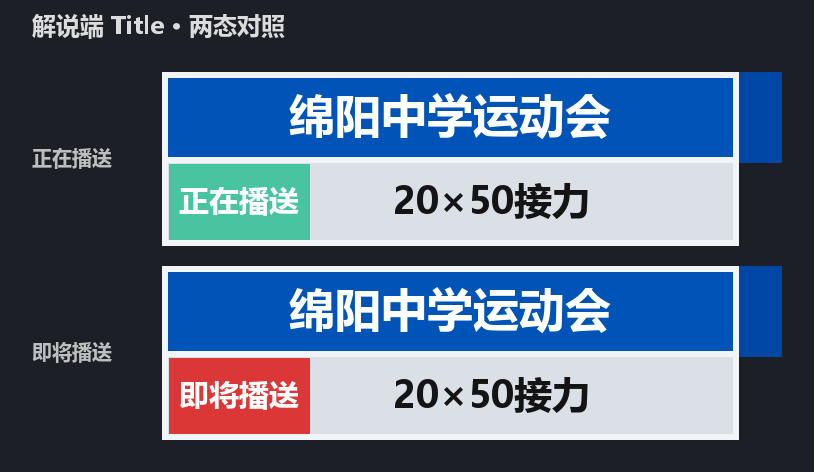
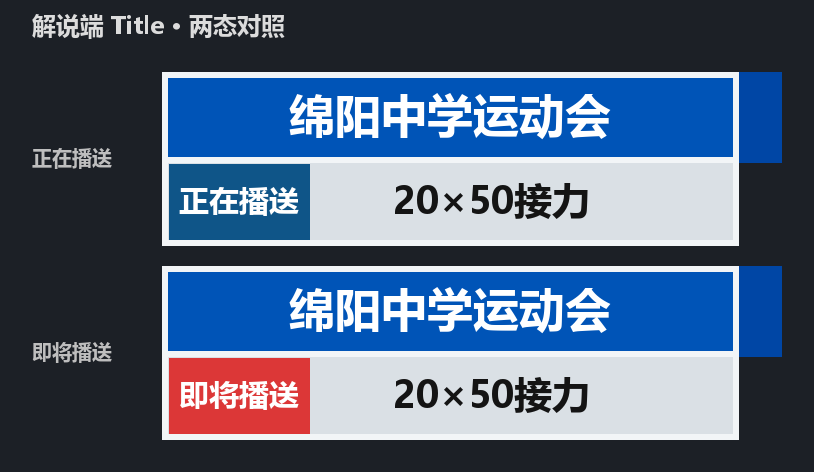
抠像键色改纯绿，「正在播送」状态色改蓝
键色从洋红 #FF00FF 改成纯绿 #00FF00。不用更「专业」的 EBU 绿 #00B140：纯绿饱和度
100%，而摄像机拍出来的绿永远带一点红蓝污染、不会那么纯，#00B140 明度只有 35%、
更贴近自然绿，键控容差得开更大才够用。纯绿也是硬件键控器与剪辑软件支持最广的那个绿。

「正在播送」那块状态色从青绿 #48C4A0 改成蓝 #0F5588，有两个原因：
一是键色已经是绿了，卡片里再留一块绿，键控范围一放宽就分不清哪块是键、哪块是状态；
二是 #0F5588 是参考图自己在播态用的原色，回到它而不是自造一个色相。
不取蓝条的 #0054B7：同色时色块就不再像一块状态标记。

顺带发现 tools/measure_preview.py 一个会静悄悄出错的坑：它找色块外框用的是
near()，判据是三通道差值求和 <= 60，而不是取最大。色块曾是青绿时它与蓝条差 150、
竖条差 203，都碰不上，整卡搜索一直没出问题；换成 #0F5588 之后与竖条 (0,70,165)
只差 59，竖条被并进外框，量出来的「色块高 41.5」（整条灰底带高）、字号 48 都是
假的。改成按位置限定搜索范围（在灰底那条带里找，带子上沿用灰底上沿而非蓝条下沿，
后者正好切进竖条最后 3 个单位），并加一条断言：外框吃满整条带就报错停下。

颜色不该成为「它不会跟别的元素撞」的隐含前提——色块颜色还会再变。

⚠ 现场已经跑过旧版的 config.json 里留着 "KeyColor": "#FF00FF"，默认值覆盖不了它
（配置是反序列化进已有值的），需要自己改成 #00FF00。README 里标出来了。

标题预览图按新配色重新生成，几何未变（verify 最大偏差 0.04）。

Changed region(s): [[0.1843, 0.3263, 0.3993, 0.5339]]

diff --git a/TitleWindow.xaml b/TitleWindow.xaml
@@ -4,7 +4,7 @@
         Title="播送标题" Width="403" Height="82"
         WindowStyle="None" ResizeMode="NoResize" Topmost="True"
         ShowInTaskbar="False"
-        Background="#FF00FF"
+        Background="#00FF00"
         WindowStartupLocation="Manual">
 
 
@@ -97,7 +97,7 @@
                 <ColumnDefinition Width="*"/>
             </Grid.ColumnDefinitions>
 
-            <Border x:Name="StateChip" Grid.Column="0" Background="#48C4A0">
+            <Border x:Name="StateChip" Grid.Column="0" Background="#0F5588">
                 <TextBlock x:Name="StateLabel"
                            Text="正在播送"
                            FontWeight="Bold"

diff --git a/TitleWindow.xaml.cs b/TitleWindow.xaml.cs
@@ -128,7 +128,15 @@ public partial class TitleWindow : Window
     private static readonly Brush AccentBrush = Frozen("#0046A5");
 
     // ── Chip 颜色（唯一随状态变的元素） ──────────────────────────────
-    private static readonly Brush ChipOnAir = Frozen("#48C4A0");
+    //
+    // 在播是蓝不是绿，有两个原因：
+    //   1. 键色已经是纯绿 #00FF00，卡片里再留一块绿，键控范围一放宽就分不清哪块
+    //      是键、哪块是状态。改成蓝之后**整张卡片没有任何绿色**，绿键再没有风险。
+    //   2. #0F5588 是参考图自己在播态用的原色，回到它而不是自造一个色相。
+    //
+    // 不取蓝条那个 #0054B7：色块和蓝条同色时它就不再像一块状态标记，只剩下色块
+    // 的位置在说明「这里是状态」。#0F5588 比它暗、比它少一点饱和，两者能分辨。
+    private static readonly Brush ChipOnAir = Frozen("#0F5588");
     private static readonly Brush ChipPending = Frozen("#DC3737");
     private static readonly Brush ChipIdle = Frozen("#8A9099");
 
@@ -165,10 +173,13 @@ public partial class TitleWindow : Window
         InitializeComponent();
         _config = config;
 
-        // 窗口底色就是键色：卡片画不满的地方（竖条与蓝条之间、蓝条与灰底之间、
-        // 灰底右下方那一块）会自然露出底色，也就是交给采集端抠掉的键色。
+        // 窗口底色就是键色：卡片画不满的地方（竖条下方 x 288.5..310、y 45.5..87
+        // 那一块）会自然露出底色，也就是交给采集端抠掉的键色。
         // 不需要额外画任何色块——阶梯状轮廓本身就是由「哪些地方不画」构成的。
-        Background = FrozenOrDefault(config.KeyColor, "#FF00FF");
+        //
+        // 兜底值与 AppConfig.KeyColor / config.json 保持同一个纯绿。理由见
+        // AppConfig.cs 那段注释：EBU 绿离卡片自己的青绿状态块只有 20.9° 色相。
+        Background = FrozenOrDefault(config.KeyColor, "#00FF00");
 
         _transitionStyle = TitleTransition.Normalize(config.Transition);
         _transitionDuration = TitleTransition.Duration(config.TransitionMs);
@@ -243,7 +254,7 @@ public partial class TitleWindow : Window
         // 描边一律**往内**画：给 Border 设 BorderThickness，而不是给 Rectangle 设
         // StrokeThickness。后者以路径为中心，有一半落在卡片外面被窗口裁掉，实际
         // 露出来只有 1.5 个设计单位，描边比预期细一半——这不是「看起来略粗」的问题，
-        // 而是键色会从卡片边缘漏进来 1.5 个单位，抠像后卡片轮廓上会镶一道洋红。
+        // 而是键色会从卡片边缘漏进来 1.5 个单位，抠像后卡片轮廓上会镶一道键色的边。
         var edge = cardW * BorderU;
 
         // 灰底：顶边不描（左上为 0），它紧贴蓝条下沿，蓝条自己那圈描边的下边就是

diff --git a/tools/measure_preview.py b/tools/measure_preview.py
@@ -33,13 +33,14 @@ DESIGN_H = 87.0
 # ── 预览图里的固定色 ──────────────────────────────────────────────
 #
 # 键色在预览图里不是真的键色：PIL 画布用深灰 (28,32,38) 当底，代表窗口底色。
-# 本窗口运行时那里是 config.KeyColor（默认洋红），由采集端抠掉。
+# 本窗口运行时那里是 config.KeyColor（默认纯绿 #00FF00），由采集端抠掉。
 CANVAS_BG = (28, 32, 38)
 GRAY = (218, 224, 229)  # 灰底
 EDGE = (242, 245, 247)  # 描边 #F2F5F7
 BAR = (0, 84, 183)  # 蓝条 #0054B7
 ACCENT = (0, 70, 165)  # 竖条 #0046A5
-CHIP_ON_AIR = (72, 196, 160)  # 色块·正在播送
+CHIP_ON_AIR = (15, 85, 136)  # 色块·正在播送 #0F5588（曾为青绿 #48C4A0）
+CHIP_PENDING = (220, 55, 55)  # 色块·即将播送 #DC3737
 
 TOL = 8  # 色段内的逐通道抖动
 BG_TOL = 12  # 判「是不是底色」的容差
@@ -286,7 +287,28 @@ def main():
     # 竖条列：竖条 | 底色
     accent_y = pick(va, ACCENT, 0, False, r)
 
-    chip = color_box(px, box, CHIP_ON_AIR, BOX_TOL)
+    # 只在**灰底那条带**里找色块，不能拿整张卡片去找。
+    #
+    # 找外框用的是 near()，判据是三通道差值**求和** <= BOX_TOL(60)，不是取最大，
+    # 所以容差比看上去宽得多也紧得多（要三个通道一起接近）。色块曾是青绿
+    # #48C4A0 时它与蓝条差 15+112+23=150、竖条差 72+126+5=203，都碰不上，整卡搜索
+    # 一直没出问题。改成蓝 #0F5588 之后：与蓝条差 63（差一点，仍然不匹配），
+    # 与竖条 (0,70,165) 差 **59 —— 匹配上了**，竖条被并进外框。
+    #
+    # 而且带子的上沿必须是**灰底上沿**（45.5），不能用蓝条下沿（42.5）：后者正好切进
+    # 竖条最后 3 个设计单位，一并被算进来。
+    #
+    # 靠缩容差治不了：色块颜色还会再变，颜色本身不该成为「它不会跟别的元素撞」的
+    # 隐含前提。用位置限定搜索范围，换多少次颜色都不影响。
+    chip_band = (box[0], yline(gray_v[0]), box[2], yline(bottom_edge[0]))
+    chip = color_box(px, chip_band, CHIP_ON_AIR, BOX_TOL)
+    # 色块不可能占满整条灰底带。真的占满了，说明上面的定位条件被某个改动破坏了，
+    # 而外框算错只会静悄悄地把后面的字号也带偏——这里宁可停下来。
+    if chip[1] <= chip_band[1] and chip[3] >= chip_band[3]:
+        raise SystemExit(
+            f"色块外框吃满了整条灰底带（像素 y {chip_band[1]}..{chip_band[3]}），"
+            "多半是搜索范围没把别的元素排除干净，而不是色块真的这么高"
+        )
     chip_ink = ink_box(px, chip[0], chip[1], chip[2] + 1, chip[3] + 1, WHITE, CHIP_ON_AIR)
     # 赛事名：在蓝条**填充**范围内取墨迹，边界各缩进 1 个单位，免得描边混进来。
     event_ink = ink_box(

diff --git a/Models/AppConfig.cs b/Models/AppConfig.cs
@@ -88,20 +88,26 @@ public class AppConfig
     public double MarginRightRatio { get; set; } = 0.04;
 
     /// <summary>
-    /// 抠像键色，卡片里所有「本该透明」的区域都填这个色（默认洋红 #FF00FF）。
+    /// 抠像键色，卡片里所有「本该透明」的区域都填这个色（默认纯绿 #00FF00）。
     ///
-    /// 为什么需要它：参考图里卡片是**阶梯状**轮廓——右端竖条是一块上下凸出的
-    /// 标签，竖条与蓝条之间、蓝条与灰底之间、以及灰底右下方都留空。这些位置在
-    /// 原始图形里是透明的，而本窗口**不能开 AllowsTransparency**：那会让 WPF 建
-    /// WS_EX_LAYERED 分层窗口，采集软件用 PrintWindow 或从窗口 DC BitBlt 抓到的
-    /// 是一片黑（实测解说端状态窗口能采、这个窗口采不到）。所以改成把透明区域填成
-    /// 键色，由采集端做色度抠像去掉。
+    /// 为什么需要它：参考图里卡片是**阶梯状**轮廓——右端竖条与蓝条齐平，竖条
+    /// **下方**那 21.5 × 41.5 个设计单位是空的。这些位置在原始图形里是透明的，
+    /// 而本窗口**不能开 AllowsTransparency**：那会让 WPF 建 WS_EX_LAYERED 分层
+    /// 窗口，采集软件用 PrintWindow 或从窗口 DC BitBlt 抓到的是一片黑（实测解说端
+    /// 状态窗口能采、这个窗口采不到）。所以改成把透明区域填成键色，由采集端做
+    /// 色度抠像去掉。
     ///
-    /// 默认洋红而不是绿：校园运动会的画面里绿色遍地（场地、校服、旗），用绿做键
-    /// 很容易连画面一起抠掉；洋红在体育直播里少见得多。真的碰上大片洋红（比如紫
-    /// 色队服）时改这里即可。
+    /// 为什么是纯绿而不是更「专业」的 EBU 绿 #00B140：卡片里现在**一点绿色都没有**
+    /// （「正在播送」那块状态色已改成蓝 #0F5588），所以只剩「会不会把画面里的绿也
+    /// 抠掉」这一个考量，而纯绿对它是安全的——#00FF00 饱和度 100%，摄像机拍出来的
+    /// 绿永远带一点红蓝污染，不会那么纯；#00B140 明度只有 35%，更贴近自然绿，容差
+    /// 得开更大才够用。纯绿也是硬件键控器与剪辑软件支持最广的那个绿。
+    ///
+    /// 真的碰上运动会画面绿色遍地、连背景一起被抠掉时，把这个值改成 "#FF00FF"——
+    /// 洋红在体育直播里少见得多。⚠ 改过这个值的老 config.json 不会被默认值覆盖
+    /// （配置是反序列化进已有值的），需要自己改这一行。
     /// </summary>
-    public string KeyColor { get; set; } = "#FF00FF";
+    public string KeyColor { get; set; } = "#00FF00";
 
     /// <summary>
     /// 机位名水平偏移（逻辑像素，最终图片尺寸下的像素）。

diff --git a/tools/render_title_preview.py b/tools/render_title_preview.py
@@ -99,7 +99,7 @@ STATES = [
     (
         "正在播送",
         "正在播送",
-        (72, 196, 160),     # Chip：绿色
+        (15, 85, 136),      # Chip：蓝色（#0F5588，参考图自己的在播色）
     ),
 
     (

diff --git a/README.md b/README.md
@@ -40,19 +40,20 @@
 - 卡片是**阶梯状轮廓**，不是完整矩形。右端竖条与蓝条齐平（不是凸出的标签），
   竖条**下方**那 21.5 × 41.5 个单位**留空**；除此之外全是实体
 - 这些留空在原始图形里是**透明**的。本窗口不能开 `AllowsTransparency`（见下），
-  因此填成**色度抠像的键色**（`KeyColor`，默认洋红 `#FF00FF`），由采集端抠掉
+  因此填成**色度抠像的键色**（`KeyColor`，默认纯绿 `#00FF00`），由采集端抠掉
 - 因此**不需要画任何色块**：阶梯轮廓本身就是「哪些地方不画」构成的
-- 卡片内部按 310 × 63 的设计单位算，实际像素 = 设计值 × u，u = 卡片宽 / 310。
-  宽高比 **4.92:1** —— 照央视下三分之一字幕条的量
+- 卡片内部按 **310 × 87** 的设计单位算，实际像素 = 设计值 × u，u = 卡片宽 / 310。
+  宽高比 **3.563:1**
 - 卡片宽度 = **输出画面**宽度 × `CardWidthRatio`（默认 0.21）。按画面而不是按当前
   显示器定尺寸，换一台分辨率不同的机器做同一场直播时卡片不变样
-- **没有描边**。此前那道「浅色描边」是把白底透出来的缝误读成了描边——参考图全图
-  只有 706 个浅色精确像素（抗锯齿残渣），实际上一个描边都没有
-- 机位名字号与赛事名字号**同号**（参考图实测两者墨迹等高）
-- 无边框所以没有标题栏：**在空白处按住拖动可以挪窗口**，**右键**出菜单（置顶 / 鼠标穿透 / 显示状态窗口 / 退出）
+- **有描边**，3 个设计单位（`#F2F5F7`），蓝条与灰底各自往内画。必须用 `Border` 的
+  `BorderThickness` 而不是 `Rectangle` 的 `StrokeThickness`：后者以路径为中心，有
+  一半落在卡片外面被窗口裁掉，实际只有 1.5 个单位，键色会镶一道边
+- 机位名字号 20.9、赛事名 25.6，**不同号**（机位名略小）
+- 无标题栏：**在空白处按住拖动可以挪窗口**，**右键**出菜单（置顶 / 鼠标穿透 / 显示状态窗口 / 退出）
 - 默认置顶：解说员要对照副屏上的画面，置顶才压得住别的窗口
 - **命中测试只有整块画布一个入口**，下面每一层都是 `IsHitTestVisible="False"` 的装饰件。
-  右端竖条是紧贴卡片右边缘的（`288.5 + 21 = 309.5`，共 310），所以它看上去总是
+  右端竖条是紧贴卡片右边缘的（`288.5 + 21.5 = 310`，共 310），所以它看上去总是
   「被切掉一截」，那是设计如此，不是被裁
 
 ::: danger 不要给这个窗口加回 AllowsTransparency
@@ -63,8 +64,19 @@
 实测：解说端状态窗口（普通不透明窗口）采集正常，本窗口采到黑屏。所以窗口必须保持
 不透明，透明区域一律靠**色度抠像**去实现——这正是 `KeyColor` 存在的原因。
 
-采集端必须配成：键色 = `KeyColor`、相似度留足余量。默认洋红而不是绿：校园运动会的
-画面里绿色遍地（场地、校服、旗），用绿做键很容易连画面一起抠掉。
+采集端必须配成：键色 = `KeyColor`、相似度留足余量。
+
+键色默认**纯绿 `#00FF00`**。不要换成看起来更「专业」的 EBU 绿 `#00B140`：卡片里现在
+一点绿都没有（「正在播送」那块状态色已改成蓝 `#0F5588`），所以只剩「会不会把画面里的
+绿也一起抠掉」这一个考量。纯绿饱和度 100%，而摄像机拍出来的绿永远带一点红蓝污染，
+不会那么纯；`#00B140` 明度只有 35%，更贴近自然绿，键控容差得开更大才够用。纯绿也是
+硬件键控器与剪辑软件支持最广的那个绿。
+
+> ⚠ 现场如果已经跑过旧版，`config.json` 里会留着 `"KeyColor": "#FF00FF"`，
+> **默认值覆盖不了它**（配置是反序列化进已有值的），需要自己改成 `#00FF00`。
+>
+> 如果连背景一起被抠掉了（运动会画面绿色遍地），把 `KeyColor` 改回 `#FF00FF` 即可，
+> 洋红在体育直播里少见得多。
 
 同理也别把窗口改成整屏大小——采集端既然能指定信号源在输出画面里的位置和大小，
 窗口就只需要是卡片那么大：源更小、缩放更清晰，也不用再操心「整屏浮层挡住桌面」。
@@ -82,14 +94,23 @@
 
 **正在播送 / 即将播送的区分**（参考图本身不带状态，这是解说端独有的）：
 
-| 状态 | 主蓝条 + 右端竖条 | 小色块 | 含义 |
-| :--- | :--- | :--- | :--- |
-| 正在播送 | 参考图原色 `#0F5588` / `#004885` | 绿 `#4ECCA3` | 画面就是这台 |
-| 即将播送 | 琥珀 `#B8860B` / `#8A6408` | 琥珀 `#D9A441` | 导播已预切、还没切 |
-| 等待 | 中性灰 `#5A5F6B` / `#3A3F4B` | 灰 `#3A3F4B` | 还没收到指令 |
+| 状态 | 左下角小色块 | 含义 |
+| :--- | :--- | :--- |
+| 正在播送 | 蓝 `#0F5588` | 画面就是这台 |
+| 即将播送 | 红 `#DC3737` | 导播已预切、还没切 |
 
-主蓝条整条变色是最大信号，余光就能读到；左下角小色块写着「正在 / 即将 / 等待」，
-是扫一眼之后的二次确认。冷暖对比（蓝 vs 琥珀）比单纯深浅差要好认得多。
+主蓝条与右端竖条是**固定色**（`#0054B7` / `#0046A5`），不随状态变——变的是左下角那块
+小色块，它写着「正在播送 / 即将播送」，是扫一眼之后的确认。冷暖对比（蓝 vs 红）比单纯
+深浅差要好认得多。
+
+在播色取参考图自己的 `#0F5588` 而**不是**蓝条的 `#0054B7`：同色时色块就不再像一块状态
+标记，只剩下它的位置在说明「这里是状态」。
+
+::: warning 「等待」状态已经删掉了
+只有 `ShotState.HasPending` 一个布尔，即两态。之前还有个「等待」（灰 `#8A9099`），
+`ShotState` 里已无对应字段，`ChipIdle` 只作为构造时的初值存在。文档与代码曾经长期
+对不上，这里记一笔。
+:::
 
 赛事名启动时按 `ProjectId` 查一次 `GET /api/projects`。查不到就退回配置里的
 `EventName`；两个都没有时**顶行整条隐藏**（右端竖条一起藏）——留一条空蓝条
@@ -173,7 +194,7 @@
 | `CanvasWidth` / `CanvasHeight` | 输出画面尺寸（卡片的设计基准），**物理像素**，默认 1920 × 1080。**必须 16:9**，不是就退回默认值 |
 | `CardWidthRatio` | 卡片宽度占**输出画面**宽度的比例，夹在 0.05..0.60 |
 | `MarginBottomRatio` / `MarginRightRatio` | 卡片下 / 右边缘到**屏幕**边缘的比例。只影响本地位置，播出位置由采集端决定 |
-| `KeyColor` | 色度抠像的键色，卡片留空处填这个色，默认 `#FF00FF` 洋红 |
+| `KeyColor` | 色度抠像的键色，卡片留空处填这个色，默认 `#00FF00` 纯绿。**老配置文件不会被默认值覆盖，改完记得核对这一行** |
 | `Transition` | 切换动画样式，见下表。**认不出来的值按 `slide` 处理** |
 | `TransitionMs` | 动画时长毫秒数。`0` 关闭动画，超过 `800` 压回 `800` |
 | `ProgOffsetX` | 机位名水平偏移（设计单位），负数向左 |
@@ -270,10 +291,10 @@ dotnet publish --configuration Release --output publish
 
 1. 芯象里新增一个信号源，类型选**窗口**，选中标题是「播送标题」的那个窗口
    （无边框、卡片大小；另一个「解说端状态」是操作台，别选错）。
-2. 给这个源打开**色度抠像**，键色填 `config.json` 里的 `KeyColor`（默认 `#FF00FF`），
-   相似度留足余量。卡片是阶梯状轮廓，留空处都是这个色。
+2. 给这个源打开**色度抠像**，键色填 `config.json` 里的 `KeyColor`（默认 `#00FF00`
+   纯绿），相似度留足余量。卡片是阶梯状轮廓，竖条下方那一块是这个色。
 3. 把这个源作为**画中画**压到 PGM 输出上，位置与大小按包装惯例设：横向靠右、
-   纵向在下三分之一附近。采集端若只能「铺满整帧」，别用它——卡片是 4.92:1 的窄条，
+   纵向在下三分之一附近。采集端若只能「铺满整帧」，别用它——卡片是 3.56:1 的窄条，
    铺满会被拉伸变形。
 4. 采集端的输出分辨率填和 `CanvasWidth` × `CanvasHeight` 一致的 16:9（默认 1920 × 1080），
    这样卡片缩放后的字号与设计值一致。
